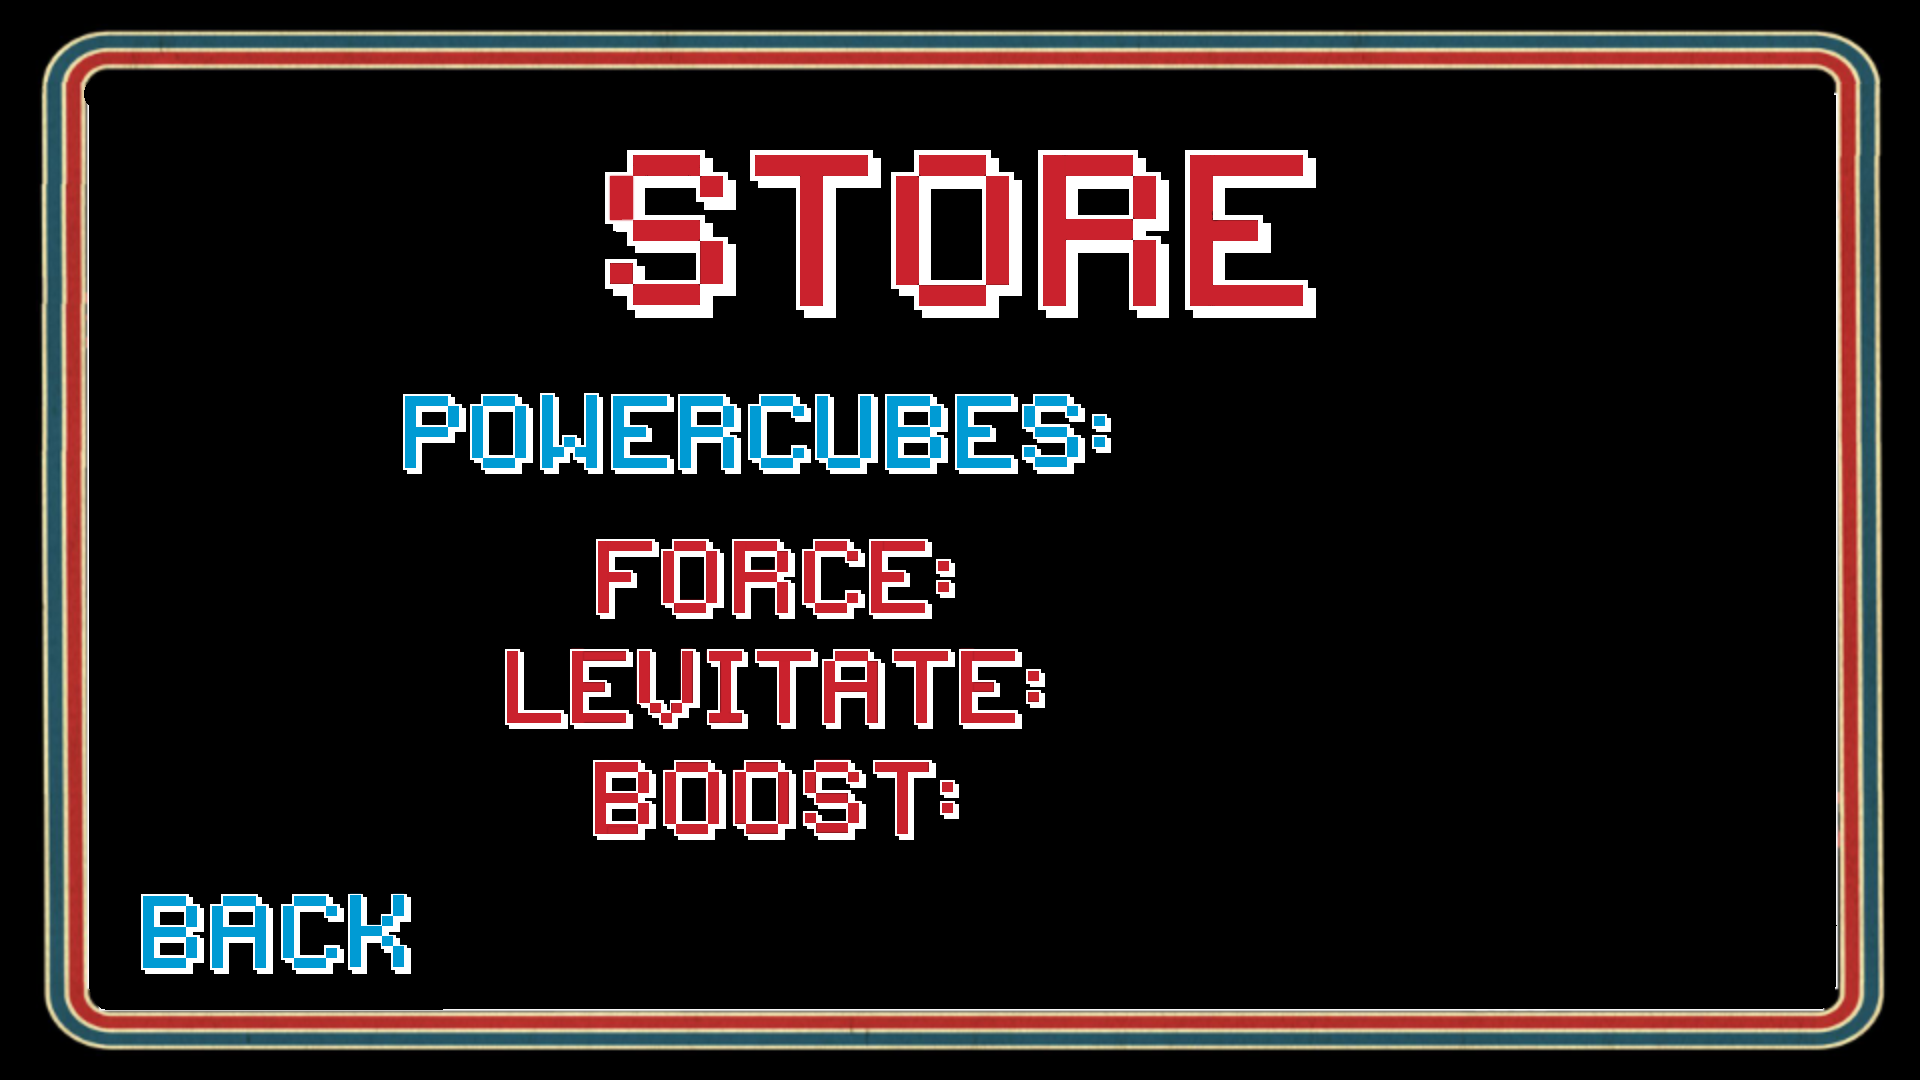
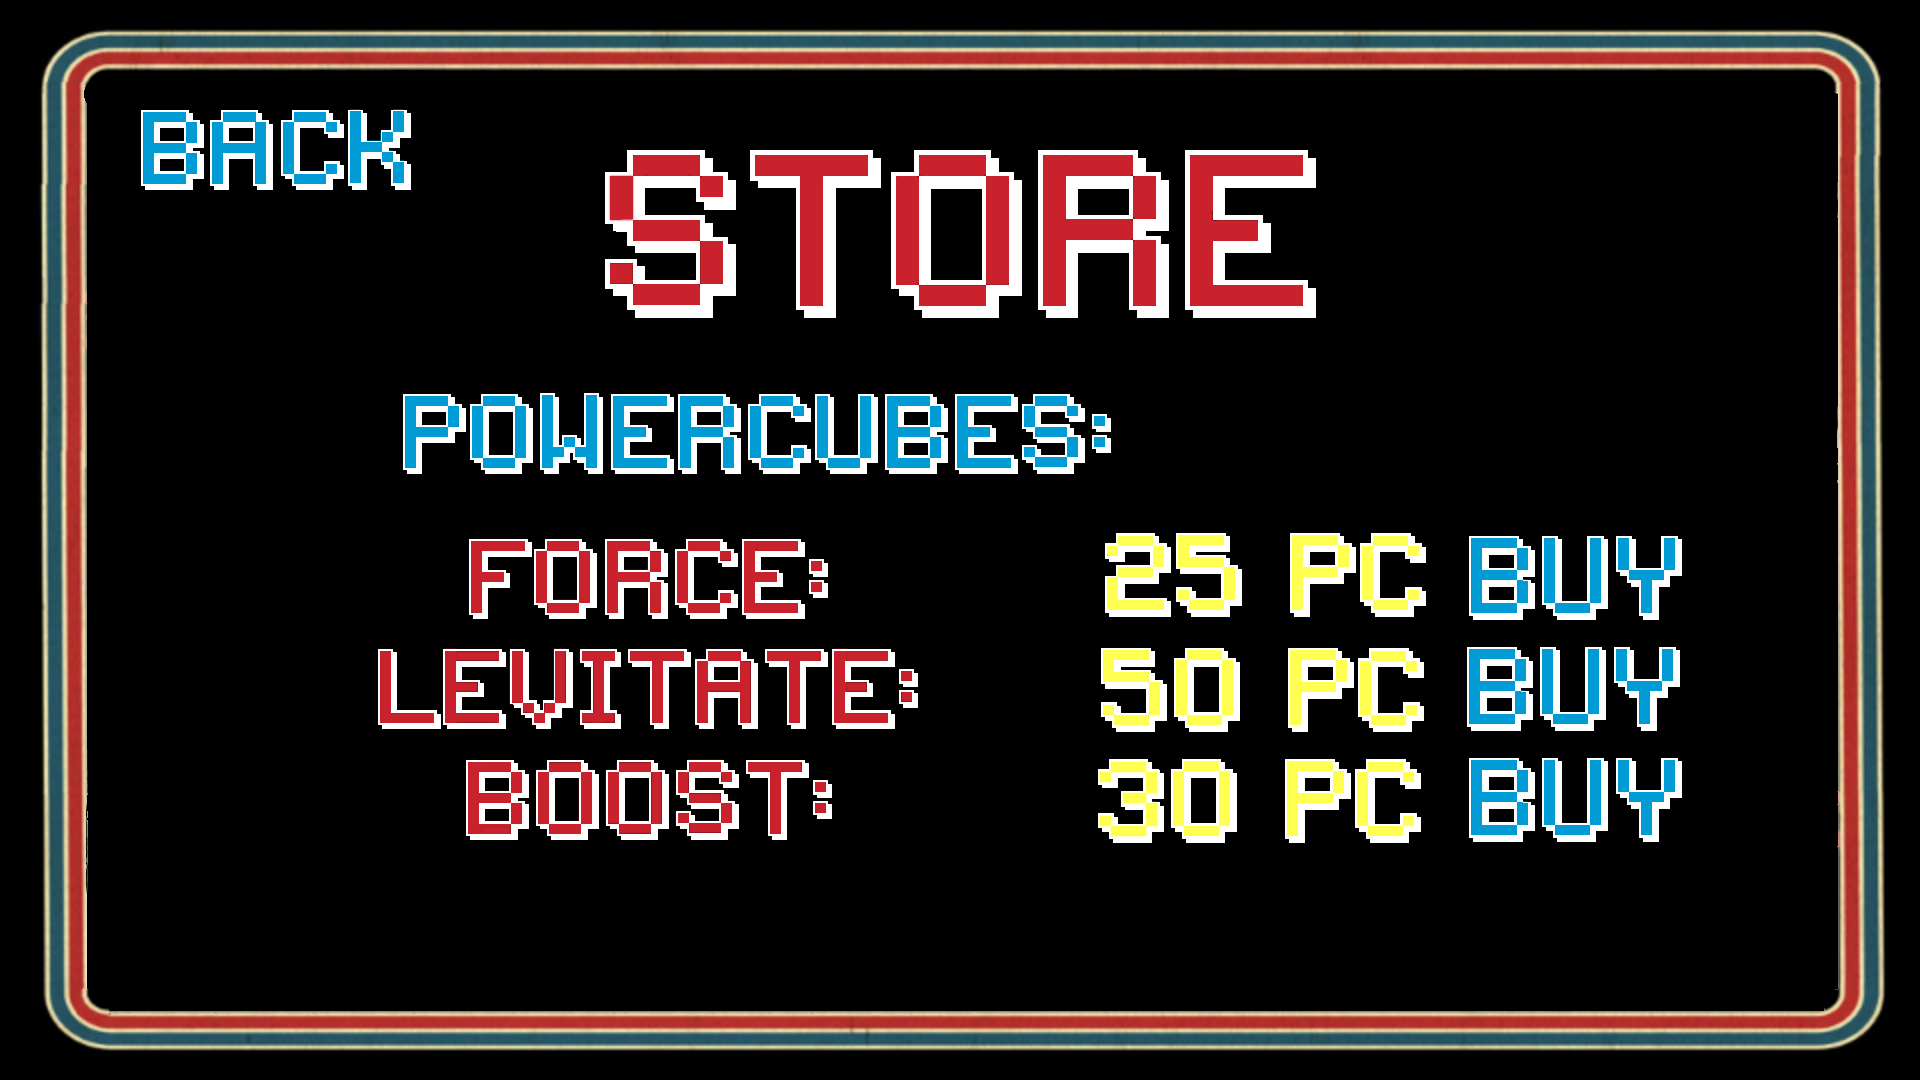
bug fixes

diff --git a/game.html b/game.html
@@ -117,10 +117,10 @@
 			// 0.1 * canvasWidth + 39 / 1842 * canvasWidth * 0.8
 
 			//ctx.drawImage(pauseMenuPic, myGameArea.canvas.width * 0.28, myGameArea.canvas.height * 0.22, myGameArea.canvas.width * 0.44, myGameArea.canvas.height * 0.56);
-			if (x > 0.28 * myGameArea.canvas.width + 90 / 353 * myGameArea.canvas.width * 0.44 &&
-				x < 0.28 * myGameArea.canvas.width + 264 / 353 * myGameArea.canvas.width * 0.44 &&
-				y > 0.22 * myGameArea.canvas.height + 173 / 260 * myGameArea.canvas.height * 0.56 &&
-				y < 0.22 * myGameArea.canvas.height + 240 / 260 * myGameArea.canvas.height * 0.56) {
+			if (x > 0.28 * myGameArea.canvas.width + 35 / 353 * myGameArea.canvas.width * 0.44 &&
+				x < 0.28 * myGameArea.canvas.width + 321 / 353 * myGameArea.canvas.width * 0.44 &&
+				y > 0.22 * myGameArea.canvas.height + 174 / 260 * myGameArea.canvas.height * 0.56 &&
+				y < 0.22 * myGameArea.canvas.height + 227 / 260 * myGameArea.canvas.height * 0.56) {
 				// quit game
 				console.log("Quit");
 				setTimeout(location.reload(), 500);
@@ -251,6 +251,7 @@
 		var highScore = localStorage.getItem('highScore') || 0;
 
 		var started = 0;
+		var mute = false;
 
 		function mainMenuTouchEventListener(evt) {
 			if (started != 1) {
@@ -281,7 +282,7 @@
 					console.log("STORE button pressed");
 					window.location = "store.html";
 				}
-				// TODO About
+
 				var storeButtonCoords = [584 / 1920 * canvasWidth,
 					750 / 1080 * canvasHeight,
 					1274 / 1920 * canvasWidth,
@@ -292,7 +293,7 @@
 					console.log("STORE button pressed");
 					window.location = "about.html";
 				}
-				// TODO Help
+
 				var storeButtonCoords = [1712 / 1920 * canvasWidth,
 					854 / 1080 * canvasHeight,
 					1888 / 1920 * canvasWidth,
@@ -302,6 +303,21 @@
 					y > storeButtonCoords[1] && y < storeButtonCoords[3]) {
 					console.log("STORE button pressed");
 					window.location = "help.html";
+				}
+
+				var muteButtonCoords = [37 / 1920 * canvasWidth,
+					838 / 1080 * canvasHeight,
+					213 / 1920 * canvasWidth,
+					1051 / 1080 * canvasHeight
+				];
+				if (x > muteButtonCoords[0] && x < muteButtonCoords[2] &&
+					y > muteButtonCoords[1] && y < muteButtonCoords[3]) {
+					console.log("MUTE button pressed");
+					if (mute === false) {
+						mute = true;
+					} else {
+						mute = false;
+					}
 				}
 			}
 		}
@@ -339,9 +355,10 @@
 				var buttonY = [100, 140, 180, 220];
 				var buttonWidth = [96, 260, 182, 160];
 				var buttonHeight = [40, 40, 40, 40];
-				var playImage = new Image();
-
-				playImage.src = "images/menu.png";
+				var menuUnmutedPic = new Image();
+				menuUnmutedPic.src = "images/menu_unmuted.png";
+				var menuMutedPic = new Image();
+				menuMutedPic.src = "images/menu_muted.png";
 
 				var frames = 30;
 				var timerId = 0;
@@ -349,6 +366,7 @@
 
 				function update() {
 					if (started == 0) {
+						// TODO add mute code here
 						clear();
 						move();
 						draw();
@@ -374,10 +392,13 @@
 				}
 
 				function draw() {
-					// if (started == 0) {
 					context.drawImage(bgImage, 0, backgroundY2, width, height * 2);
 					context.drawImage(bgImage, 0, backgroundY, width, height * 2);
-					context.drawImage(playImage, 0, 0, width, height);
+					if (mute === false) {
+						context.drawImage(menuUnmutedPic, 0, 0, width, height);
+					} else {
+						context.drawImage(menuMutedPic, 0, 0, width, height);
+					}
 				}
 			},
 			clear: function() {
@@ -702,6 +723,7 @@
 		}
 
 		function updateGameArea() {
+			// TODO add mute code here
 			var x, width, height, gap, minHeight, maxHeight, minGap, maxGap;
 			for (i = 0; i < myObstacles.length; i += 1) {
 				if (myGamePiece.crashWith(myObstacles[i]) && autoRunning == false) {
@@ -884,7 +906,7 @@
 			if (forceAction === true) {
 				ctx.drawImage(buttonBackgroundRedImg, myGameArea.canvas.width * 0.66, myGameArea.canvas.width * 0.02, myGameArea.canvas.width * 0.05, myGameArea.canvas.width * 0.05);
 			}
-			if (forceAction === true && myGameArea.frameNo - myGameArea.forceSection >= 468 && Math.round(((myGameArea.frameNo - myGameArea.forceSection) - 666) * -1 / (200 / 12)) % 2 == 0){
+			if (forceAction === true && myGameArea.frameNo - myGameArea.forceSection >= 468 && Math.round(((myGameArea.frameNo - myGameArea.forceSection) - 666) * -1 / (200 / 12)) % 2 == 0) {
 				ctx.drawImage(buttonBackgroundImg, myGameArea.canvas.width * 0.66, myGameArea.canvas.width * 0.02, myGameArea.canvas.width * 0.05, myGameArea.canvas.width * 0.05);
 			}
 			ctx.drawImage(forceImg, myGameArea.canvas.width * 0.66, myGameArea.canvas.width * 0.02, myGameArea.canvas.width * 0.05, myGameArea.canvas.width * 0.05);
@@ -892,7 +914,7 @@
 			if (levitateAction === true) {
 				ctx.drawImage(buttonBackgroundRedImg, myGameArea.canvas.width * 0.74, myGameArea.canvas.width * 0.02, myGameArea.canvas.width * 0.05, myGameArea.canvas.width * 0.05);
 			}
-			if (levitateAction === true && myGameArea.frameNo - myGameArea.levitateSection >= 468 && Math.round(((myGameArea.frameNo - myGameArea.levitateSection) - 666) * -1 / (200 / 12)) % 2 == 0){
+			if (levitateAction === true && myGameArea.frameNo - myGameArea.levitateSection >= 468 && Math.round(((myGameArea.frameNo - myGameArea.levitateSection) - 666) * -1 / (200 / 12)) % 2 == 0) {
 				ctx.drawImage(buttonBackgroundImg, myGameArea.canvas.width * 0.74, myGameArea.canvas.width * 0.02, myGameArea.canvas.width * 0.05, myGameArea.canvas.width * 0.05);
 			}
 			ctx.drawImage(levitateImg, myGameArea.canvas.width * 0.74, myGameArea.canvas.width * 0.02, myGameArea.canvas.width * 0.05, myGameArea.canvas.width * 0.05);
@@ -900,7 +922,7 @@
 			if (boostAction === true) {
 				ctx.drawImage(buttonBackgroundRedImg, myGameArea.canvas.width * 0.82, myGameArea.canvas.width * 0.02, myGameArea.canvas.width * 0.05, myGameArea.canvas.width * 0.05);
 			}
-			if (boostAction === true && myGameArea.frameNo - myGameArea.boostSection >= 468 && Math.round(((myGameArea.frameNo - myGameArea.boostSection) - 666) * -1 / (200 / 12)) % 2 == 0){
+			if (boostAction === true && myGameArea.frameNo - myGameArea.boostSection >= 468 && Math.round(((myGameArea.frameNo - myGameArea.boostSection) - 666) * -1 / (200 / 12)) % 2 == 0) {
 				ctx.drawImage(buttonBackgroundImg, myGameArea.canvas.width * 0.82, myGameArea.canvas.width * 0.02, myGameArea.canvas.width * 0.05, myGameArea.canvas.width * 0.05);
 			}
 			ctx.drawImage(boostImg, myGameArea.canvas.width * 0.82, myGameArea.canvas.width * 0.02, myGameArea.canvas.width * 0.05, myGameArea.canvas.width * 0.05);
@@ -973,6 +995,11 @@
 			ctx.fillRect(0, 0, myGameArea.canvas.width, myGameArea.canvas.height);
 			ctx.globalAlpha = 1;
 			ctx.drawImage(gameoverPic, myGameArea.canvas.width * 0.28, myGameArea.canvas.height * 0.22, myGameArea.canvas.width * 0.44, myGameArea.canvas.height * 0.56);
+			ctx.font = 20 / 260 * myGameArea.canvas.height * 0.56 + "px Georgia";
+			ctx.fillStyle = "#ffffff";
+			ctx.fillText("" + score, 0.28 * myGameArea.canvas.width + 169 / 353 * myGameArea.canvas.width * 0.44, 0.22 * myGameArea.canvas.height + 105 / 260 * myGameArea.canvas.height * 0.56);
+			ctx.fillText("" + highScore, 0.28 * myGameArea.canvas.width + 150 / 353 * myGameArea.canvas.width * 0.44, 0.22 * myGameArea.canvas.height + 135 / 260 * myGameArea.canvas.height * 0.56);
+			ctx.fillText("" + coinScore, 0.28 * myGameArea.canvas.width + 177 / 353 * myGameArea.canvas.width * 0.44, 0.22 * myGameArea.canvas.height + 164 / 260 * myGameArea.canvas.height * 0.56);
 		}
 
 		function accelerate(n) {

diff --git a/store.html b/store.html
@@ -29,9 +29,9 @@
       ctx.font = 80 / 1080 * canvasHeight + "px Georgia";
       ctx.fillStyle = "#ffffff";
       ctx.fillText("" + coinScore, 1140 / 1920 * canvasWidth, 464 / 1080 * canvasHeight);
-      ctx.fillText("" + forcePowerups, 1000 / 1920 * canvasWidth, 612 / 1080 * canvasHeight);
-      ctx.fillText("" + levitatePowerups, 1092 / 1920 * canvasWidth, 716 / 1080 * canvasHeight);
-      ctx.fillText("" + boostPowerups, 1000 / 1920 * canvasWidth, 832 / 1080 * canvasHeight);
+      ctx.fillText("" + forcePowerups, 860 / 1920 * canvasWidth, 612 / 1080 * canvasHeight);
+      ctx.fillText("" + levitatePowerups, 952 / 1920 * canvasWidth, 716 / 1080 * canvasHeight);
+      ctx.fillText("" + boostPowerups, 860 / 1920 * canvasWidth, 832 / 1080 * canvasHeight);
     }
 
     function loadBackgroundImage() {
@@ -90,9 +90,9 @@
     function setButtons() {
       var canvasWidth = window.innerWidth;
       var canvasHeight = window.innerHeight;
-      addButton(596 / 1920 * canvasWidth, 539 / 1080 * canvasHeight, 932 / 1920 * canvasWidth, 619 / 1080 * canvasHeight, buyForce);
-      addButton(505 / 1920 * canvasWidth, 649 / 1080 * canvasHeight, 1022 / 1920 * canvasWidth, 729 / 1080 * canvasHeight, buyLevitate);
-      addButton(593 / 1920 * canvasWidth, 760 / 1080 * canvasHeight, 938 / 1920 * canvasWidth, 840 / 1080 * canvasHeight, buyBoost);
+      addButton(1469 / 1920 * canvasWidth, 539 / 1080 * canvasHeight, 1682 / 1920 * canvasWidth, 619 / 1080 * canvasHeight, buyForce);
+      addButton(1469 / 1920 * canvasWidth, 649 / 1080 * canvasHeight, 1682 / 1920 * canvasWidth, 729 / 1080 * canvasHeight, buyLevitate);
+      addButton(1469 / 1920 * canvasWidth, 760 / 1080 * canvasHeight, 1682 / 1920 * canvasWidth, 840 / 1080 * canvasHeight, buyBoost);
       addButton(132 / 1920 * canvasWidth, 110 / 1080 * canvasHeight, 413 / 1920 * canvasWidth, 193 / 1080 * canvasHeight, backToMainMenu);
     }
 

diff --git a/donate.html b/donate.html
@@ -36,7 +36,7 @@
     }
 
     function backToMainMenu(){
-      window.location = "game.html";
+      window.location = "about.html";
     }
 
     function addButton(x1,y1,x2,y2,callback){
@@ -47,7 +47,7 @@
       var canvasWidth = window.innerWidth;
       var canvasHeight = window.innerHeight;
       addButton(132 / 1920 * canvasWidth, 110 / 1080 * canvasHeight, 413 / 1920 * canvasWidth, 193 / 1080 * canvasHeight, backToMainMenu);
-      addButton(382 / 1920 * canvasWidth, 951 / 1080 * canvasHeight, 690 / 1920 * canvasWidth, 1005 / 1080 * canvasHeight, goToDonate);
+      addButton(118 / 1920 * canvasWidth, 315 / 1080 * canvasHeight, 352 / 1920 * canvasWidth, 373 / 1080 * canvasHeight, goToDonate);
     }
 
     function checkButtons(evt){

diff --git a/about.html b/about.html
@@ -46,8 +46,8 @@
     function setButtons() {
       var canvasWidth = window.innerWidth;
       var canvasHeight = window.innerHeight;
-      addButton(132 / 1920 * canvasWidth, 110 / 1080 * canvasHeight, 413 / 1920 * canvasWidth, 193 / 1080 * canvasHeight, backToMainMenu);
-      addButton(382 / 1920 * canvasWidth, 951 / 1080 * canvasHeight, 690 / 1920 * canvasWidth, 1005 / 1080 * canvasHeight, goToDonate);
+      addButton(44 / 1920 * canvasWidth, 72 / 1080 * canvasHeight, 408 / 1920 * canvasWidth, 182 / 1080 * canvasHeight, backToMainMenu);
+      addButton(60 / 1920 * canvasWidth, 805 / 1080 * canvasHeight, 758 / 1920 * canvasWidth, 943 / 1080 * canvasHeight, goToDonate);
     }
 
     function checkButtons(evt){

diff --git a/index.html b/index.html
@@ -9,14 +9,7 @@
 <body onload="init()" id="script">
 	<canvas id='c' style='position: absolute; left: 0px; top: 0px; z-index: 2;'></canvas>
 	<canvas id='cb' style='position: absolute; left: 0px; top: 0px; z-index: 1;'></canvas>
-	<img id="source" src="crowd.png" style="opacity: 0.0;">
 	<script>
-		// TODO choose red aliance and blue, make switches opposite (different patterns maybe (die or loose points))
-		// TODO Slightly more frc themed
-		// TODO Don't forget powerups (boost, force, levitate)
-		// TODO Spend coins (power cubes) on power ups
-		// TODO coins never reset
-
 		function init() {
 			loadImages("LoadingScreen.png", "LoadingScreen2.png");
 		}
